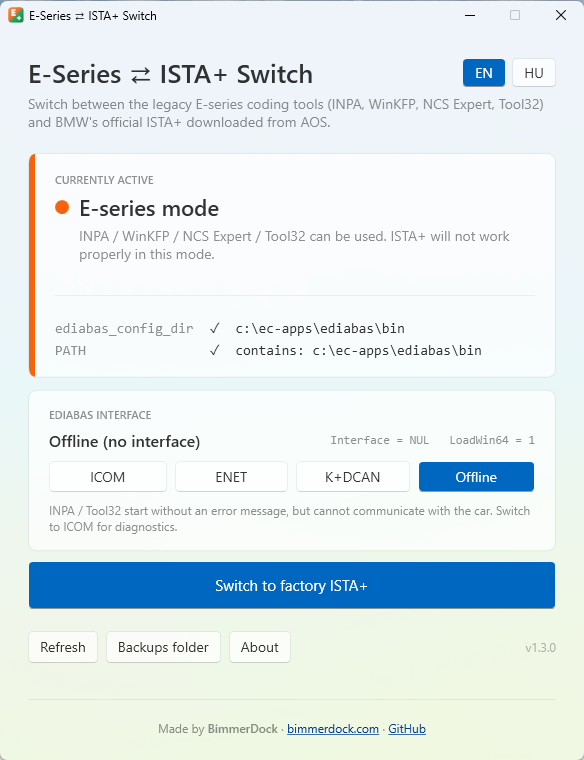
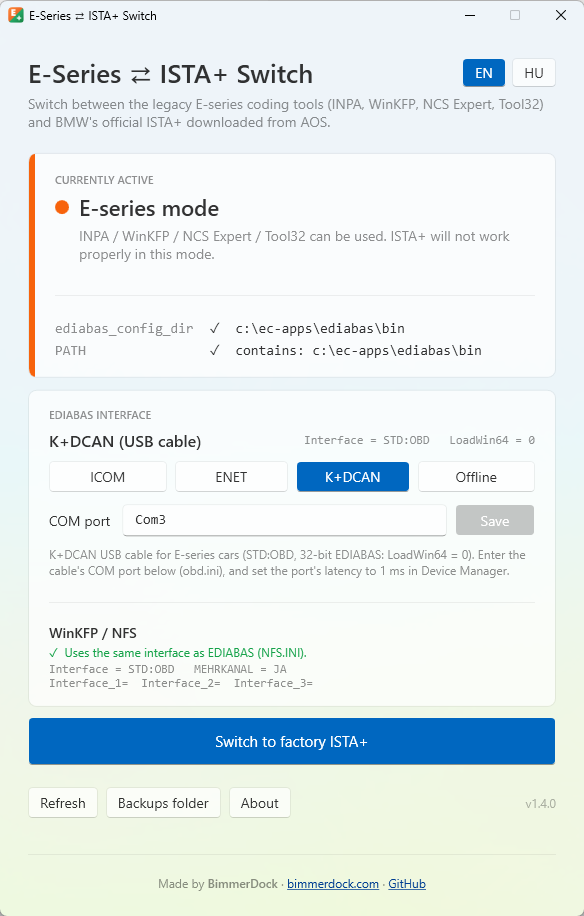
v1.4.0 – WinKFP / NFS support
- NFS.INI [INSTANZ] follows the EDIABAS interface when an interface is chosen
  (Interface = same value, Interface_1..3 emptied, MEHRKANAL untouched)
- NFS status on the interface card with a Sync button when it differs
- IniFile: accepts "[ SECTION ]" headers, emptied values are written as "key="
- README (EN/HU): new WinKFP / NFS section, changelog, screenshots

diff --git a/MainWindow.xaml b/MainWindow.xaml
@@ -171,6 +171,27 @@
                 <TextBlock x:Name="HostStatus" Margin="0,6,0,0" FontSize="12" Visibility="Collapsed"/>
                 <TextBlock x:Name="InterfaceHint" Margin="0,10,0,0" TextWrapping="Wrap" FontSize="12"
                            Foreground="{DynamicResource TextFillColorSecondaryBrush}"/>
+
+                <!-- WinKFP / NFS: NFS.INI [INSTANZ] follows the EDIABAS interface -->
+                <StackPanel x:Name="NfsPanel" Visibility="Collapsed">
+                    <Separator Margin="0,12,0,10"/>
+                    <Grid>
+                        <Grid.ColumnDefinitions>
+                            <ColumnDefinition/>
+                            <ColumnDefinition Width="Auto"/>
+                        </Grid.ColumnDefinitions>
+                        <StackPanel VerticalAlignment="Center" Margin="0,0,12,0">
+                            <TextBlock FontWeight="SemiBold" Text="WinKFP / NFS"/>
+                            <TextBlock x:Name="NfsStatusText" FontSize="12" TextWrapping="Wrap" Margin="0,2,0,0"/>
+                            <TextBlock x:Name="NfsValueText" FontFamily="Consolas" FontSize="12" Margin="0,2,0,0"
+                                       TextWrapping="Wrap"
+                                       Foreground="{DynamicResource TextFillColorSecondaryBrush}"/>
+                        </StackPanel>
+                        <Button x:Name="NfsSyncButton" Grid.Column="1" MinWidth="90" VerticalAlignment="Center"
+                                Style="{DynamicResource AccentButtonStyle}" Click="NfsSync_Click"
+                                Content="{Binding [NfsSync], Source={x:Static loc:Loc.Instance}}"/>
+                    </Grid>
+                </StackPanel>
             </StackPanel>
         </Border>
 

diff --git a/Services/NfsConfig.cs b/Services/NfsConfig.cs
@@ -1,0 +1,73 @@
+using System.IO;
+
+namespace ESeriesSwitch.Services
+{
+    public sealed record NfsStatus(string IniPath, string? Interface, string? MultiChannel, IReadOnlyList<string> ChannelInterfaces)
+    {
+        /// <summary>WinKFP channel entries (Interface_1..3) that are not empty.</summary>
+        public bool HasChannelInterfaces => ChannelInterfaces.Any(c => c.Length > 0);
+    }
+
+    /// <summary>
+    /// NFS (WinKFP's "Nachflash-System", NFS\BIN\nfs.exe) has its own interface setting in NFS.INI [INSTANZ].
+    /// Its default points to an OPPS (remote:OBD_ab625 ...), which makes NFS fail to start without one.
+    /// Per the NFS help, a single-instance NFS should simply use the same channel as EDIABAS,
+    /// with the WinKFP channel entries (Interface_1..3) left empty.
+    /// </summary>
+    public static class NfsConfig
+    {
+        const string Section = "INSTANZ";
+        static readonly string[] ChannelKeys = ["Interface_1", "Interface_2", "Interface_3"];
+
+        /// <summary>NFS.INI next to the EDIABAS install (…\EC-APPS\NFS\BIN), or the classic C:\NFS\BIN. Null if not found.</summary>
+        public static string? FindIniPath()
+        {
+            var ecApps = Path.GetFullPath(Path.Combine(Environment.ExpandEnvironmentVariables(EnvironmentSwitcher.EdiabasBin), "..", ".."));
+            string[] candidates =
+            [
+                Path.Combine(ecApps, "NFS", "BIN", "NFS.INI"),
+                @"C:\EC-APPS\NFS\BIN\NFS.INI",
+                @"C:\NFS\BIN\NFS.INI",
+            ];
+            return candidates.FirstOrDefault(File.Exists);
+        }
+
+        /// <summary>Null if NFS is not installed or NFS.INI has no [INSTANZ] Interface line.</summary>
+        public static NfsStatus? Read()
+        {
+            var path = FindIniPath();
+            if (path == null)
+                return null;
+
+            var iface = IniFile.Read(path, Section, "Interface");
+            if (iface == null)
+                return null;
+
+            var channels = ChannelKeys.Select(k => IniFile.Read(path, Section, k) ?? "").ToList();
+            return new NfsStatus(path, iface, IniFile.Read(path, Section, "MEHRKANAL"), channels);
+        }
+
+        public static bool MatchesEdiabas(NfsStatus nfs, string? ediabasInterface) =>
+            ediabasInterface != null
+            && string.Equals(nfs.Interface, ediabasInterface, StringComparison.OrdinalIgnoreCase)
+            && !nfs.HasChannelInterfaces;
+
+        /// <summary>
+        /// Sets NFS to the given EDIABAS interface and empties the WinKFP channel entries.
+        /// Only lines that actually differ are written; MEHRKANAL and everything else is left as it is.
+        /// </summary>
+        public static void SyncWith(string ediabasInterface)
+        {
+            var nfs = Read();
+            if (nfs == null)
+                return;
+
+            if (!string.Equals(nfs.Interface, ediabasInterface, StringComparison.OrdinalIgnoreCase))
+                IniFile.Write(nfs.IniPath, Section, "Interface", ediabasInterface);
+
+            for (int i = 0; i < ChannelKeys.Length; i++)
+                if (nfs.ChannelInterfaces[i].Length > 0)
+                    IniFile.Write(nfs.IniPath, Section, ChannelKeys[i], "");
+        }
+    }
+}

diff --git a/MainWindow.xaml.cs b/MainWindow.xaml.cs
@@ -143,6 +143,48 @@ namespace ESeriesSwitch
             RefreshLoadWin64();
             RefreshEnetVariant();
             RefreshHost();
+            RefreshNfs(value);
+        }
+
+        // WinKFP / NFS: NFS.INI [INSTANZ] should use the same interface as EDIABAS
+        void RefreshNfs(string ediabasInterface)
+        {
+            NfsStatus? nfs;
+            try
+            {
+                nfs = NfsConfig.Read();
+            }
+            catch
+            {
+                nfs = null;
+            }
+
+            NfsPanel.Visibility = nfs != null ? Visibility.Visible : Visibility.Collapsed;
+            if (nfs == null)
+                return;
+
+            bool matches = NfsConfig.MatchesEdiabas(nfs, ediabasInterface);
+            NfsStatusText.Text = matches ? Loc.T("NfsMatches") : Loc.T("NfsDiffers");
+            NfsStatusText.Foreground = (Brush)FindResource(matches ? "IstaBrush" : "ESeriesBrush");
+
+            var channels = string.Join("  ", nfs.ChannelInterfaces.Select((c, i) => $"Interface_{i + 1}={c}"));
+            NfsValueText.Text = $"Interface = {nfs.Interface}   MEHRKANAL = {nfs.MultiChannel ?? "–"}\n{channels}";
+            NfsSyncButton.Visibility = matches ? Visibility.Collapsed : Visibility.Visible;
+        }
+
+        void NfsSync_Click(object sender, RoutedEventArgs e)
+        {
+            try
+            {
+                var ediabasInterface = EdiabasConfig.ReadInterface();
+                if (ediabasInterface != null)
+                    NfsConfig.SyncWith(ediabasInterface);
+            }
+            catch (Exception ex)
+            {
+                MessageBox.Show(this, Loc.T("ErrIniWrite", ex.Message), Title, MessageBoxButton.OK, MessageBoxImage.Error);
+            }
+            RefreshInterface();
         }
 
         bool _loadWin64Mismatch;
@@ -339,6 +381,8 @@ namespace ESeriesSwitch
             try
             {
                 EdiabasConfig.SetInterface(kind);
+                // WinKFP / NFS follows the EDIABAS interface (no-op if NFS is not installed)
+                NfsConfig.SyncWith(EdiabasConfig.InterfaceValue(kind));
             }
             catch (Exception ex)
             {

diff --git a/Localization/Strings.cs b/Localization/Strings.cs
@@ -37,6 +37,9 @@
             ["HostLabelIcom"] = "ICOM IP address",
             ["HostLabelEnet"] = "Vehicle / ICOM IP",
             ["HostLabelKDcan"] = "COM port",
+            ["NfsMatches"] = "✓  Uses the same interface as EDIABAS (NFS.INI).",
+            ["NfsDiffers"] = "⚠  NFS.INI uses a different interface than EDIABAS, so WinKFP / NFS may not start or connect. Click Sync to match it.",
+            ["NfsSync"] = "Sync",
             ["EnetVariantLabel"] = "Connection",
             ["EnetCable"] = "ENET cable",
             ["EnetCustomPorts"] = "custom ports",
@@ -135,6 +138,9 @@
             ["HostLabelIcom"] = "ICOM IP-cím",
             ["HostLabelEnet"] = "Autó / ICOM IP",
             ["HostLabelKDcan"] = "COM port",
+            ["NfsMatches"] = "✓  Ugyanazt az interfészt használja, mint az EDIABAS (NFS.INI).",
+            ["NfsDiffers"] = "⚠  Az NFS.INI más interfészt használ, mint az EDIABAS, ezért a WinKFP / NFS nem biztos, hogy elindul vagy csatlakozik. Kattints a Szinkron gombra.",
+            ["NfsSync"] = "Szinkron",
             ["EnetVariantLabel"] = "Kapcsolat",
             ["EnetCable"] = "ENET kábel",
             ["EnetCustomPorts"] = "egyedi portok",

diff --git a/Services/IniFile.cs b/Services/IniFile.cs
@@ -40,7 +40,8 @@ namespace ESeriesSwitch.Services
 
             // Keep the whitespace around the value (and anything before a ; comment)
             var old = group.Value;
-            var leading = old[..(old.Length - old.TrimStart().Length)];
+            // An emptied value becomes "key=" (no dangling space)
+            var leading = value.Length == 0 ? "" : old[..(old.Length - old.TrimStart().Length)];
             var trailing = old[old.TrimEnd().Length..];
             var updated = text[..group.Index] + leading + value + trailing + text[(group.Index + group.Length)..];
             File.WriteAllBytes(path, FileEncoding.GetBytes(updated));
@@ -50,7 +51,8 @@ namespace ESeriesSwitch.Services
 
         static Group? FindValue(string text, string section, string key)
         {
-            var sectionMatch = new Regex($@"^\[{Regex.Escape(section)}\][ \t]*\r?$",
+            // "[INSTANZ]" and "[ INSTANZ ]" are both valid
+            var sectionMatch = new Regex($@"^\[[ \t]*{Regex.Escape(section)}[ \t]*\][ \t]*\r?$",
                 RegexOptions.Multiline | RegexOptions.IgnoreCase).Match(text);
             if (!sectionMatch.Success)
                 return null;

diff --git a/README.hu.md b/README.hu.md
@@ -44,7 +44,8 @@ Az **ESeriesSwitch** ezt egy kattintással, biztonságosan elvégzi, és egy pil
 - **Váltás egy kattintással**, mindkét irányba.
 - **Automatikus mentés** az előző értékekről minden módosítás előtt.
 - **Biztonságos PATH-kezelés**: csak az EDIABAS-bejegyzést adja hozzá vagy veszi ki. A `PATH` többi része és a registry-típusa (`REG_EXPAND_SZ`) érintetlen marad, így a `%SystemRoot%\system32`-höz hasonló bejegyzések továbbra is működnek.
-- **EDIABAS interfész kiválasztása** (ICOM, ENET, K+DCAN vagy Offline), az ICOM IP-címe, az ENET cím és a K+DCAN COM port az appban szerkeszthető. Az Offline megelőzi a `NET-0009: TIMEOUT` hibát, ha nincs ICOM csatlakoztatva ([részletek lent](#ediabas-interfész-icom--enet--kdcan--offline)).
+- **EDIABAS interfész kiválasztása** (ICOM, ENET, K+DCAN vagy Offline), az ICOM IP-címe, az ENET cím és a K+DCAN COM port az appban szerkeszthető.
+- **WinKFP / NFS**: az `NFS.INI` automatikusan ugyanazt az interfészt használja, mint az EDIABAS, így az NFS OPPS nélkül is elindul ([részletek lent](#winkfp--nfs)). Az Offline megelőzi a `NET-0009: TIMEOUT` hibát, ha nincs ICOM csatlakoztatva ([részletek lent](#ediabas-interfész-icom--enet--kdcan--offline)).
 - **Újraindítás felajánlása** váltás után.
 - **Figyelmeztetés**, ha hiányzik az EDIABAS mappa, vagy ha felhasználói szintű változók felülírhatják a rendszerszintűeket.
 - **Angol és magyar** felület, bármikor átváltható.
@@ -137,6 +138,36 @@ Mindhárom fájl az EDIABAS `BIN` mappájában van.
 - Minden módosítás előtt másolatot ment a fájlról a mentések mappájába.
 - A változás az INPA vagy a Tool32 következő indításakor lép életbe, újraindítás nem kell hozzá.
 
+## WinKFP / NFS
+
+Az NFS-nek (`C:\EC-APPS\NFS\BIN\nfs.exe`, a WinKFP flash rendszere) **saját** interfészbeállítása van az `NFS.INI` → `[INSTANZ]` részben. Gyárilag egy BMW-s OPPS interfészre mutat:
+
+```ini
+[INSTANZ]
+Interface= remote:OBD_ab625
+MEHRKANAL= JA
+Interface_1= remote:OBD_ab625
+Interface_2= remote:MOST_CTRL_ab625
+Interface_3= remote:MOST_ASYNC_ab625
+```
+
+OPPS nélkül így az NFS nem indul el. Az NFS súgója szerint egy példányos használatnál az NFS-nek ugyanazt a csatornát kell használnia, mint az EDIABAS-nak, ezért az app a kettőt szinkronban tartja:
+
+- **Interfész választásakor** az `NFS.INI` → `[INSTANZ]` → `Interface` ugyanarra az értékre áll (pl. `STD:OBD`, `RPLUS:ICOM_P`), a WinKFP csatornái (`Interface_1` … `Interface_3`) pedig kiürülnek. A `MEHRKANAL` és a fájl többi része nem változik.
+- Az *EDIABAS interfész* kártya mutatja, hogy az NFS egyezik-e az EDIABAS-szal. Ha nem (például kézi módosítás vagy friss telepítés után), kattints a **Szinkron** gombra.
+- Az `NFS.INI`-t az app az EDIABAS melletti `…\EC-APPS\NFS\BIN` mappában, majd a `C:\NFS\BIN`-ben keresi. Ha nem találja, a kártyán ez a rész nem jelenik meg.
+
+K+DCAN-nél az eredmény pontosan a megszokott kézi javítás:
+
+```ini
+[INSTANZ]
+Interface= STD:OBD
+MEHRKANAL= JA
+Interface_1=
+Interface_2=
+Interface_3=
+```
+
 ## Mit módosít az app, és mihez nem nyúl
 
 **Módosítja:**
@@ -144,6 +175,7 @@ Mindhárom fájl az EDIABAS `BIN` mappájában van.
 - az EDIABAS `BIN` bejegyzést a rendszer `PATH`-ban
 - az `EDIABAS.INI` `Interface` és `LoadWin64` sorát, de **csak** interfészgombra kattintva
 - az ENET portokat az `EDIABAS.INI`-ben (`[XEthernet] ControlPort` / `DiagnosticPort`), de **csak** az *ENET kábel* / *ICOM Next* választásakor
+- az `NFS.INI` `Interface` és `Interface_1` … `Interface_3` sorát (`[INSTANZ]`), de **csak** interfész választásakor vagy a *Szinkron* gombra kattintva
 - az ICOM címét az `Rplus.ini`-ben (`[ICOM_P] RemoteHost`), az ENET címét az `EDIABAS.INI`-ben (`[XEthernet] RemoteHost`) vagy a K+DCAN COM portját az `obd.ini`-ben (`[OBD] Port`), de **csak** a *Mentés* gombra kattintva
 
 **Létrehozza:**
@@ -152,7 +184,7 @@ Mindhárom fájl az EDIABAS `BIN` mappájában van.
 **Soha nem nyúl hozzá:**
 - a felhasználói szintű környezeti változókhoz (ezeket csak olvassa, és figyelmeztet)
 - az ISTA+-hoz, INPA-hoz, WinKFP-hez, NCS Experthez és ezek fájljaihoz
-- az `EDIABAS.INI`, az `Rplus.ini` és az `obd.ini` többi részéhez, valamint a `C:\EC-APPS` többi fájljához
+- az `EDIABAS.INI`, az `Rplus.ini`, az `obd.ini` és az `NFS.INI` többi részéhez, valamint a `C:\EC-APPS` többi fájljához
 - a hálózati beállításokhoz, az ICOM-hoz és a Windows-szolgáltatásokhoz
 
 **Hálózat:** az app egyetlen hálózati kapcsolata a frissítésellenőrzés. Indításkor egyszer lekérdezi az `api.github.com`-ról a legújabb kiadás verziószámát. Rólad és a gépedről semmilyen adatot nem küld, és semmit nem tölt le magától. Ha a gép offline, az ellenőrzés csendben kimarad.
@@ -162,14 +194,14 @@ Mindhárom fájl az EDIABAS `BIN` mappájában van.
 A mentések helye: `C:\ProgramData\ESeriesSwitch\Backups\`. A **Mentések mappája** gombbal nyithatod meg.
 
 - `backup_ÉÉÉÉHHNN_ÓÓPPMM.json`: a környezeti változók állapota **a váltás előtt**: `Path`, `PathKind`, `EdiabasConfigDir`.
-- `EDIABAS_…`, `Rplus_…` és `obd_ÉÉÉÉHHNN_ÓÓPPMM.ini`: a fájl másolata **az interfész vagy egy kapcsolati beállítás módosítása előtt**.
+- `EDIABAS_…`, `Rplus_…`, `obd_…` és `NFS_ÉÉÉÉHHNN_ÓÓPPMM.INI`: a fájl másolata **az interfész vagy egy kapcsolati beállítás módosítása előtt**.
 
 **A környezeti változók kézi visszaállítása:**
 1. Nyisd meg a *Rendszer tulajdonságai* → *Környezeti változók…* ablakot (vagy futtasd rendszergazdaként a `rundll32 sysdm.cpl,EditEnvironmentVariables` parancsot).
 2. A *Rendszerváltozók* között szerkeszd a `Path` értékét: kattints a *Szöveg szerkesztése…* gombra, és illeszd be a mentésfájl `Path` értékét.
 3. Állítsd be vagy töröld az `EDIABAS_CONFIG_DIR` változót a mentésben lévő `EdiabasConfigDir` szerint.
 
-**Az `EDIABAS.INI` / `Rplus.ini` / `obd.ini` kézi visszaállítása:** másold vissza a mentett fájlt az EDIABAS `BIN` mappába, és nevezd át az eredeti nevére.
+**Az `EDIABAS.INI` / `Rplus.ini` / `obd.ini` / `NFS.INI` kézi visszaállítása:** másold vissza a mentett fájlt a helyére (EDIABAS `BIN`, az `NFS.INI`-t pedig az `NFS\BIN` mappába), és nevezd át az eredeti nevére.
 
 ## Hibaelhárítás
 
@@ -220,6 +252,9 @@ A tároló **nem** tartalmaz BMW-szoftvert, adatfájlokat vagy más, jogvédett 
 
 ## Verziók
 
+- **1.4.0**
+  - WinKFP / NFS támogatás: az `NFS.INI` `[INSTANZ]` része automatikusan követi az EDIABAS interfészt, így az NFS OPPS nélkül is elindul
+  - NFS állapot az interfész kártyán, *Szinkron* gombbal, ha nem egyezik
 - **1.3.0**
   - Bővített interfészválasztás: ICOM, ENET, K+DCAN és Offline
   - Az ICOM IP-címe (`Rplus.ini`), az ENET cím (`EDIABAS.INI`) és a K+DCAN COM port (`obd.ini`) az appban szerkeszthető, mindig frissen az INI-fájlokból olvasva

diff --git a/README.md b/README.md
@@ -44,7 +44,8 @@ So the legacy tools only work **with** the environment variables, and ISTA+ only
 - **One-click switching** in both directions.
 - **Automatic backup** of the previous values before every change.
 - **Safe PATH handling**: only the EDIABAS entry is added or removed. The rest of `PATH` and its registry type (`REG_EXPAND_SZ`) are left untouched, so entries like `%SystemRoot%\system32` keep working.
-- **EDIABAS interface selection** (ICOM, ENET, K+DCAN or Offline), with the ICOM IP, the ENET address and the K+DCAN COM port editable in the app. Offline avoids the `NET-0009: TIMEOUT` error when no ICOM is connected ([details below](#ediabas-interface-icom--enet--kdcan--offline)).
+- **EDIABAS interface selection** (ICOM, ENET, K+DCAN or Offline), with the ICOM IP, the ENET address and the K+DCAN COM port editable in the app.
+- **WinKFP / NFS**: `NFS.INI` automatically uses the same interface as EDIABAS, so NFS starts without an OPPS ([details below](#winkfp--nfs)). Offline avoids the `NET-0009: TIMEOUT` error when no ICOM is connected ([details below](#ediabas-interface-icom--enet--kdcan--offline)).
 - **Restart offer** after switching.
 - **Warnings** if the EDIABAS folder is missing or if user-level variables could override the system ones.
 - **English and Hungarian** user interface, switchable at any time.
@@ -137,6 +138,36 @@ All three files are in the EDIABAS `BIN` folder.
 - A copy of the file is saved to the backups folder before every change.
 - The change takes effect the next time INPA or Tool32 starts. No restart is needed.
 
+## WinKFP / NFS
+
+NFS (`C:\EC-APPS\NFS\BIN\nfs.exe`, the WinKFP flash system) has its **own** interface setting in `NFS.INI` → `[INSTANZ]`. Out of the box it points to a BMW factory OPPS interface:
+
+```ini
+[INSTANZ]
+Interface= remote:OBD_ab625
+MEHRKANAL= JA
+Interface_1= remote:OBD_ab625
+Interface_2= remote:MOST_CTRL_ab625
+Interface_3= remote:MOST_ASYNC_ab625
+```
+
+Without an OPPS, NFS then fails to start. According to the NFS help, a single-instance NFS should use the same channel as EDIABAS, so the app keeps them in sync:
+
+- **When you choose an interface**, `NFS.INI` → `[INSTANZ]` → `Interface` is set to the same value (e.g. `STD:OBD`, `RPLUS:ICOM_P`), and the WinKFP channel entries `Interface_1` … `Interface_3` are emptied. `MEHRKANAL` and the rest of the file are not changed.
+- The *EDIABAS interface* card shows whether NFS matches EDIABAS. If it does not (e.g. after a manual edit or a fresh install), click **Sync**.
+- `NFS.INI` is looked for in `…\EC-APPS\NFS\BIN` next to EDIABAS, then in `C:\NFS\BIN`. If it is not found, this part of the card is hidden.
+
+For K+DCAN, the result is exactly the usual manual fix:
+
+```ini
+[INSTANZ]
+Interface= STD:OBD
+MEHRKANAL= JA
+Interface_1=
+Interface_2=
+Interface_3=
+```
+
 ## What the app changes and what it does not
 
 **Changes:**
@@ -144,6 +175,7 @@ All three files are in the EDIABAS `BIN` folder.
 - the EDIABAS `BIN` entry in the system `PATH`
 - the `Interface` and `LoadWin64` lines in `EDIABAS.INI`, **only** when you click an interface button
 - the ENET ports in `EDIABAS.INI` (`[XEthernet] ControlPort` / `DiagnosticPort`), **only** when you choose *ENET cable* or *ICOM Next*
+- the `Interface` and `Interface_1` … `Interface_3` lines in `NFS.INI` (`[INSTANZ]`), **only** when you choose an interface or click *Sync*
 - the ICOM address in `Rplus.ini` (`[ICOM_P] RemoteHost`), the ENET address in `EDIABAS.INI` (`[XEthernet] RemoteHost`) or the K+DCAN COM port in `obd.ini` (`[OBD] Port`), **only** when you click *Save*
 
 **Creates:**
@@ -152,7 +184,7 @@ All three files are in the EDIABAS `BIN` folder.
 **Never touches:**
 - user-level environment variables (it only reads them and warns you)
 - ISTA+, INPA, WinKFP, NCS Expert or any of their files
-- the rest of `EDIABAS.INI`, `Rplus.ini`, `obd.ini` and `C:\EC-APPS`
+- the rest of `EDIABAS.INI`, `Rplus.ini`, `obd.ini`, `NFS.INI` and `C:\EC-APPS`
 - network settings, the ICOM or Windows services
 
 **Network:** the only connection the app makes is the update check, a single request to `api.github.com` on startup that reads the latest release number. No data about you or your PC is sent, and nothing is downloaded automatically. If the PC is offline, the check is skipped silently.
@@ -162,14 +194,14 @@ All three files are in the EDIABAS `BIN` folder.
 Backups are stored in `C:\ProgramData\ESeriesSwitch\Backups\`. Open this folder with the **Backups folder** button.
 
 - `backup_YYYYMMDD_HHMMSS.json` contains the environment **before** a switch: `Path`, `PathKind` and `EdiabasConfigDir`.
-- `EDIABAS_…`, `Rplus_…` and `obd_YYYYMMDD_HHMMSS.ini` contain a copy of the file **before** an interface or connection setting change.
+- `EDIABAS_…`, `Rplus_…`, `obd_…` and `NFS_YYYYMMDD_HHMMSS.INI` contain a copy of the file **before** an interface or connection setting change.
 
 **Manual restore of the environment:**
 1. Open *System Properties* → *Environment Variables…* (or run `rundll32 sysdm.cpl,EditEnvironmentVariables` as administrator).
 2. Under *System variables*, edit `Path`, click *Edit text…* and paste the `Path` value from the backup file.
 3. Set or delete `EDIABAS_CONFIG_DIR` to match `EdiabasConfigDir` from the backup.
 
-**Manual restore of `EDIABAS.INI` / `Rplus.ini` / `obd.ini`:** copy the backup file back to the EDIABAS `BIN` folder and rename it to its original name.
+**Manual restore of `EDIABAS.INI` / `Rplus.ini` / `obd.ini` / `NFS.INI`:** copy the backup file back to its folder (EDIABAS `BIN`, or `NFS\BIN` for `NFS.INI`) and rename it to its original name.
 
 ## Troubleshooting
 
@@ -220,6 +252,9 @@ This repository contains **no** BMW software, data files or other proprietary ma
 
 ## Changelog
 
+- **1.4.0**
+  - WinKFP / NFS support: `NFS.INI` `[INSTANZ]` automatically follows the EDIABAS interface, so NFS starts without an OPPS
+  - NFS status on the interface card, with a *Sync* button when it does not match
 - **1.3.0**
   - Interface selection extended: ICOM, ENET, K+DCAN and Offline
   - ICOM IP address (`Rplus.ini`), ENET address (`EDIABAS.INI`) and K+DCAN COM port (`obd.ini`) editable in the app, always read fresh from the INI files
